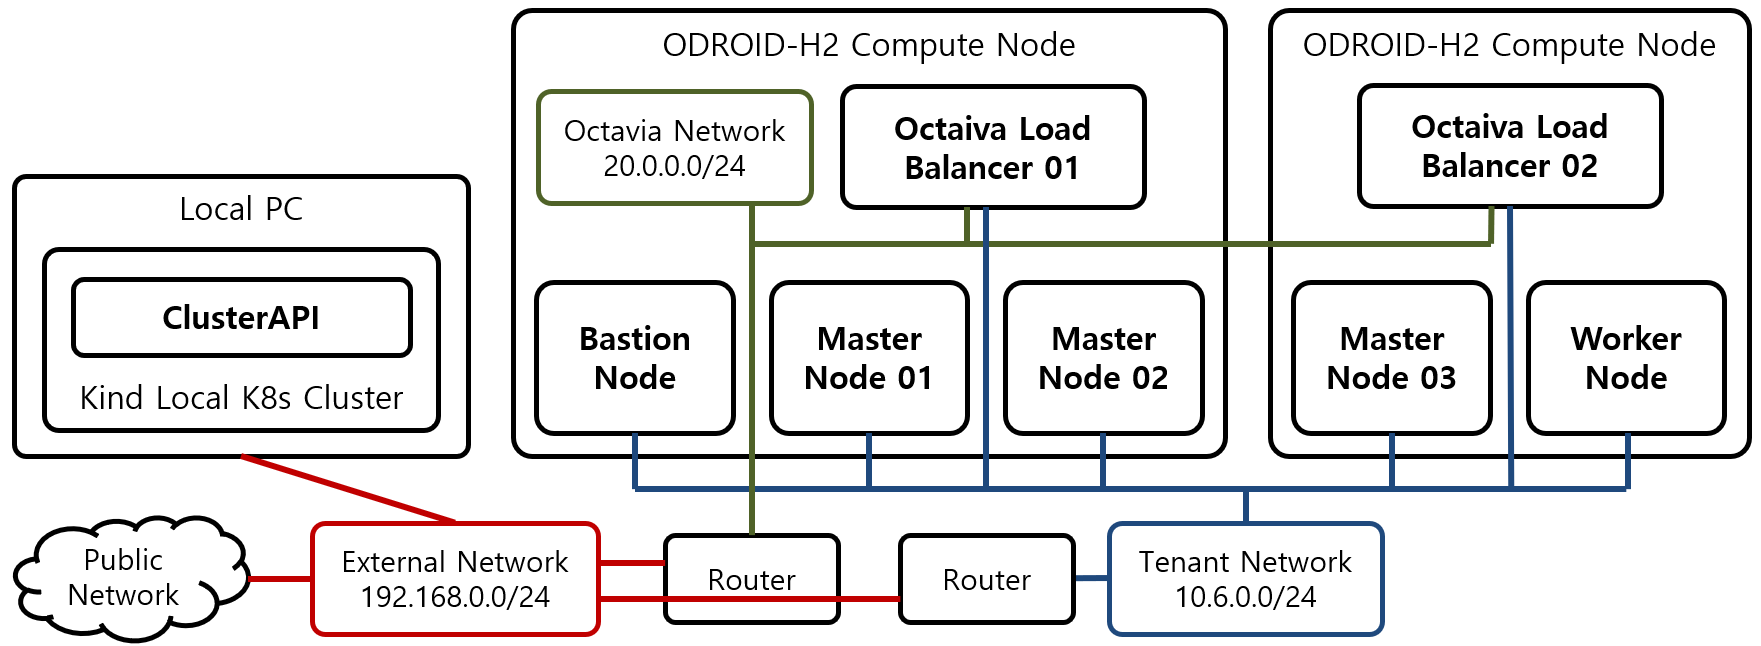
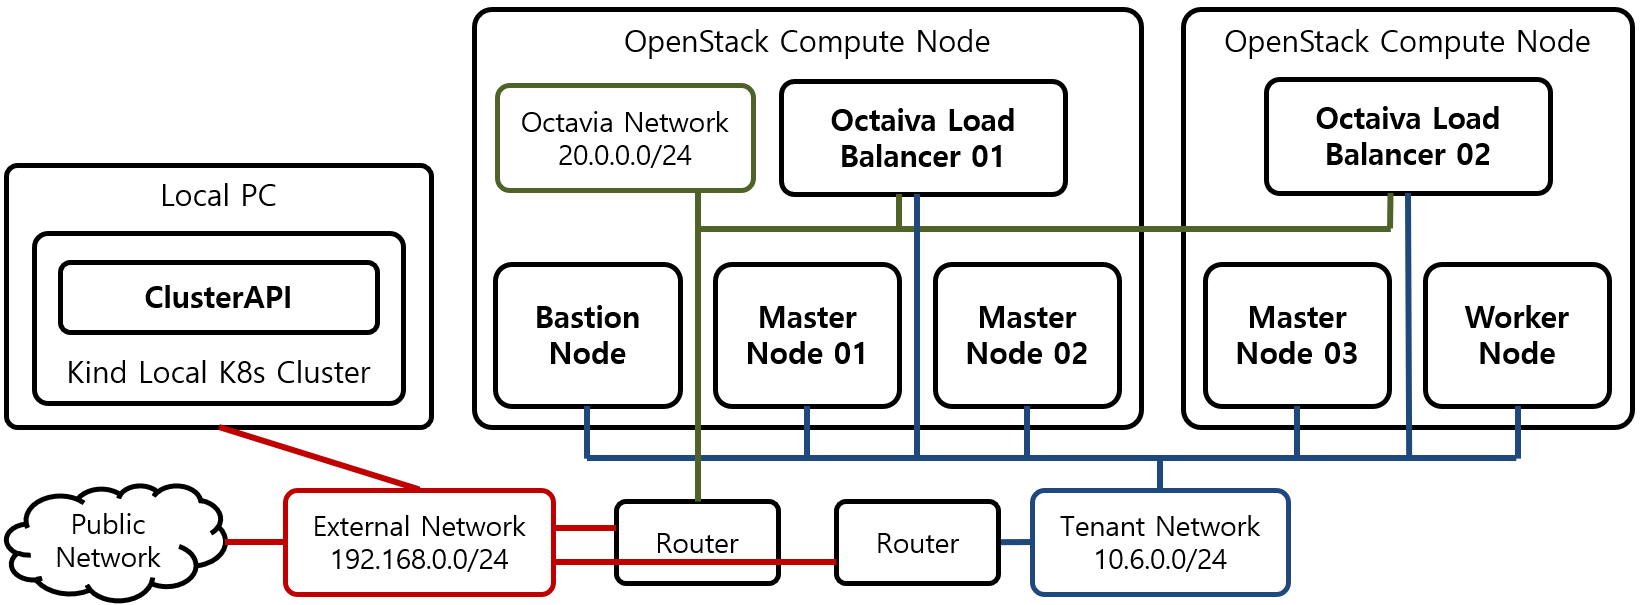
Update

diff --git a/_docs/theory_analysis/Kubernetes_ClusterAPI_Architecture_OpenStack.md b/_docs/theory_analysis/Kubernetes_ClusterAPI_Architecture_OpenStack.md
@@ -1,0 +1,19 @@
+---
+title: Kubernetes ClusterAPI Architecture on OpenStack
+category: Theory, Analysis
+date: 2020-11-26T12:00:00Z
+lastmod: 2020-11-26T12:00:00Z
+comment: true
+adsense: true
+---
+
+OpenStack 위에서 동작하는 Kubernetes Cluster API의 Architecture를 분석한다.
+
+### 1. Kubernetes ClusterAPI Architecture on OpenStack
+
+![[그림 1] Kubernetes ClusterAPI Architecture on OpenStack]({{site.baseurl}}/images/theory_analysis/Kubernetes_Architecture/Kubernetes_Architecture.PNG){: width="700px"}
+
+### 2. 참조
+
+* [https://cluster-api.sigs.k8s.io/](https://cluster-api.sigs.k8s.io/)
+* [https://github.com/kubernetes-sigs/cluster-api-provider-openstack](https://github.com/kubernetes-sigs/cluster-api-provider-openstack)
